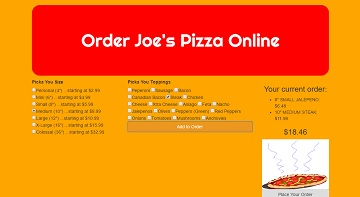
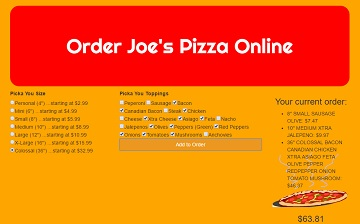
total order with al toppings included

Changed region(s): [[0.0, 0.0, 0.9778, 1.0], [0.1833, 0.1523, 0.825, 0.2437]]

diff --git a/js/scripts.js b/js/scripts.js
@@ -55,10 +55,12 @@ $("#addToOrder").click(function(event) {
   event.preventDefault();
 
   var yourPizza = new Pizza ($("input[name='size']:checked").val());
-  yourPizza.addTopping($("input[name='toppings']:checked").val());
+  $("input[name='toppings']:checked").each(function() {
+    yourPizza.addTopping($(this).val());
+  });
 
   total+=yourPizza.price;
 
-$("#yourOrder").append("<li>" + yourPizza.size + "\" " + yourPizza.type.toUpperCase() +  ": $" + yourPizza.price + "</li>");
-$("#orderTotal").text("$" + total);
+$("#yourOrder").append("<li>" + yourPizza.size + "\" " + yourPizza.type.toUpperCase() +  ": $" + yourPizza.price.toFixed(2) + "</li>");
+$("#orderTotal").text("$" + total.toFixed(2));
 });

diff --git a/index.html b/index.html
@@ -63,7 +63,6 @@
           <h3>Your current order:</h3>
           <ul id="yourOrder"></ul>
           <h3 id="orderTotal"></h3>
-          <img src="img/pizza.png" class="img-responsive">
           <button id="orderNow" class="btn btn-block">Place Your Order</button>
         </div>
     </div>

diff --git a/css/styles.css b/css/styles.css
@@ -13,3 +13,11 @@ h1 {
 h3 {
   text-align: center;
 }
+ul {
+  background-image: url("../img/pizza.png");
+  background-size: contain;
+  background-repeat: no-repeat;
+  background-position: bottom;
+  min-height: 50px;
+  padding-bottom: 50px;
+}

diff --git a/README.md b/README.md
@@ -1,7 +1,7 @@
 # [Joe's Pizza](http://karenfreemansmith.github.io/pizza)
 ![project screenshot](/img/screenshot.jpg)
 
-__Version 1: April 27, 2016__
+__Version 1: May 9, 2016__
 ## by [Karen Freeman-Smith](http://karenfreemansmith.github.io)
 
 ### Description
@@ -21,8 +21,8 @@ __*A website to order a pizza.*__
 For questions or comments, please __email [Karen](karenfreemansmith@gmail.com)__
 
 ### Known Issues
-* Doesn't do anything with toppings yet
-* Needs to total order
+
+
 
 ### Technologies Used
 ###### HTML, CSS, Bootstrap, JavaScript, jQuery
